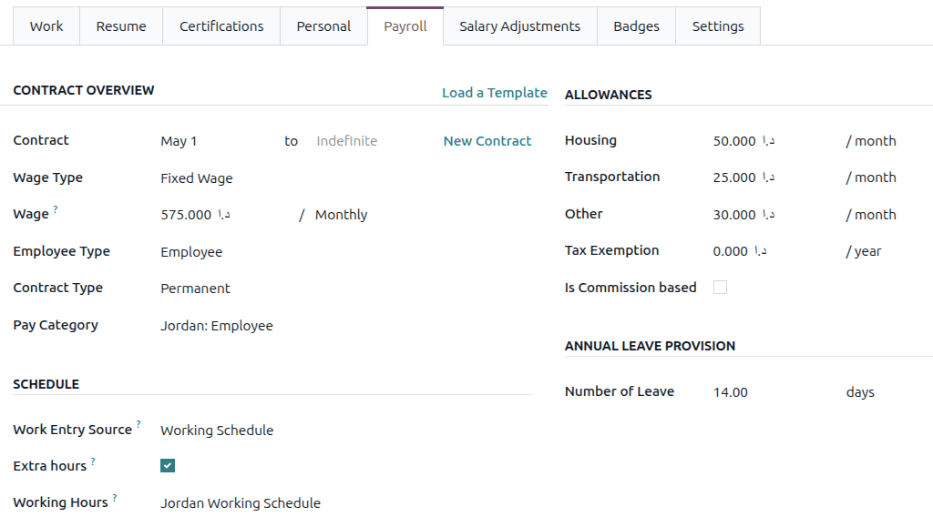
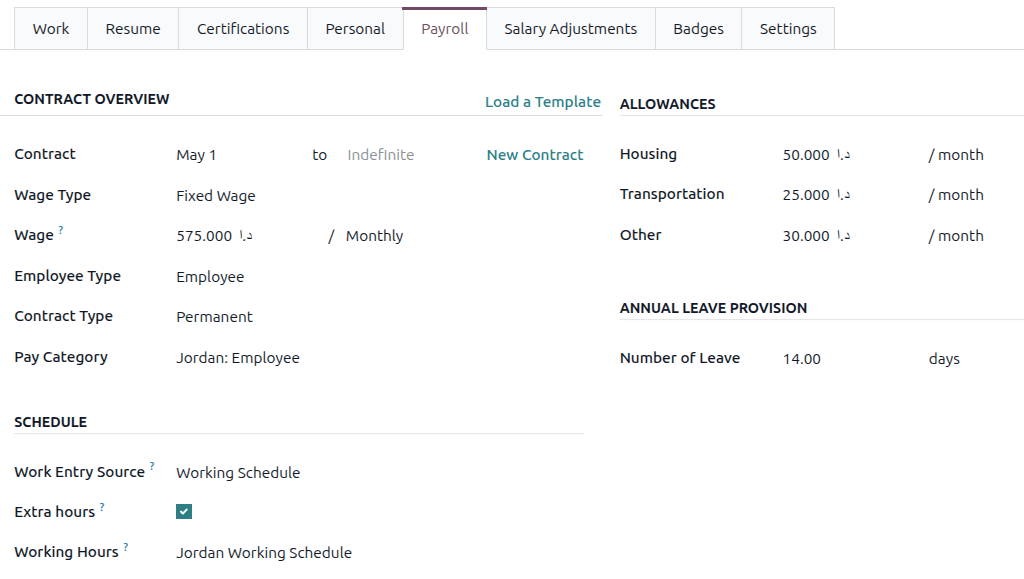
[IMP] Payroll: Allowances Changes in Jordan Localization
closes odoo/documentation#20791

X-original-commit: acb06c0a7c85fa4851f09dbdbd52242074a81b4c

diff --git a/content/applications/hr/payroll/payroll_localizations/jordan.rst b/content/applications/hr/payroll/payroll_localizations/jordan.rst
@@ -132,9 +132,6 @@ configured:
 - :guilabel:`Pay Category`: Select :guilabel:`Jordan: Employee` for this field. This defines when
   the employee is paid, their default working schedule, and the work entry type it applies to.
 
-.. image:: jordan/jo-payroll-overview.png
-   :alt: The contract overview section of the employee form of the payroll tab.
-
 Schedule section
 ~~~~~~~~~~~~~~~~
 
@@ -159,24 +156,22 @@ Allowances section
 The following sections of benefits are considered common ones offered by Jordanian employers. This
 information needs to be populated with the information selected by the employee.
 
+Enter the monthly allowance amount for :guilabel:`Housing`, :guilabel:`Transportation`, and
+:guilabel:`Other` allowances.
+
 .. note::
    The benefits listed in this section are considered the ones most commonly offered by companies.
    If other employee benefits exist that require regular paycheck deductions, they can be added as
    *inputs*.
-
-Enter the monthly allowance amount for :guilabel:`Housing`, :guilabel:`Transportation`, and
-:guilabel:`Other` allowances.
-
-If the employee is tax exempt, enter the annual amount that is not subject to taxes in the
-:guilabel:`Tax Exemption` field.
-
-If the employee's salary is based on commission, tick the :guilabel:`Is Commission based` checkbox.
 
 Annual leave provision section
 ~~~~~~~~~~~~~~~~~~~~~~~~~~~~~~
 
 Every year, employees receive days off. Enter the number of days in the :guilabel:`Number of Leave
 days` field. The default value is 14.
+
+.. image:: jordan/jo-payroll-overview.png
+   :alt: The contract overview section of the employee form of the payroll tab.
 
 Social Insurance
 ================
